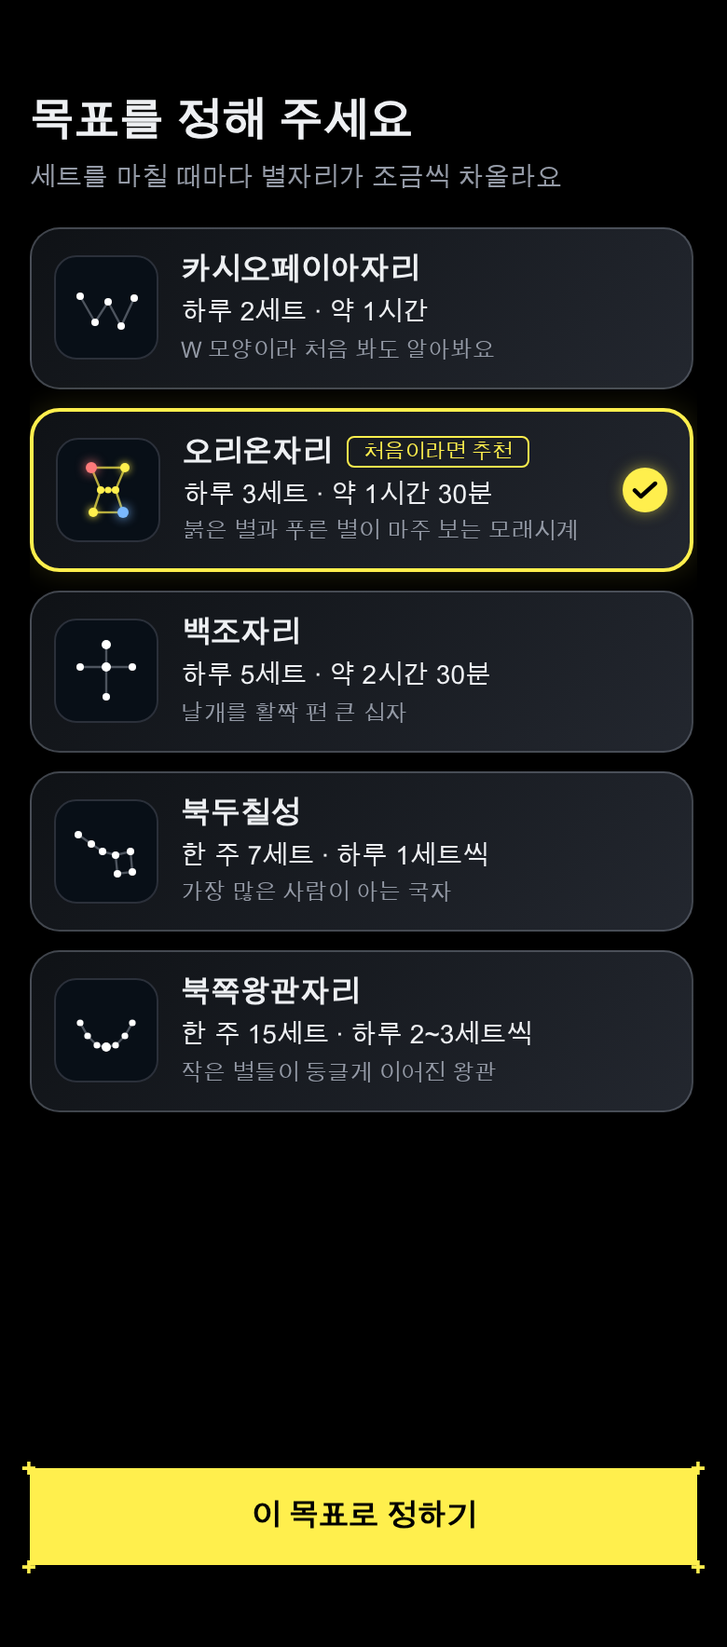
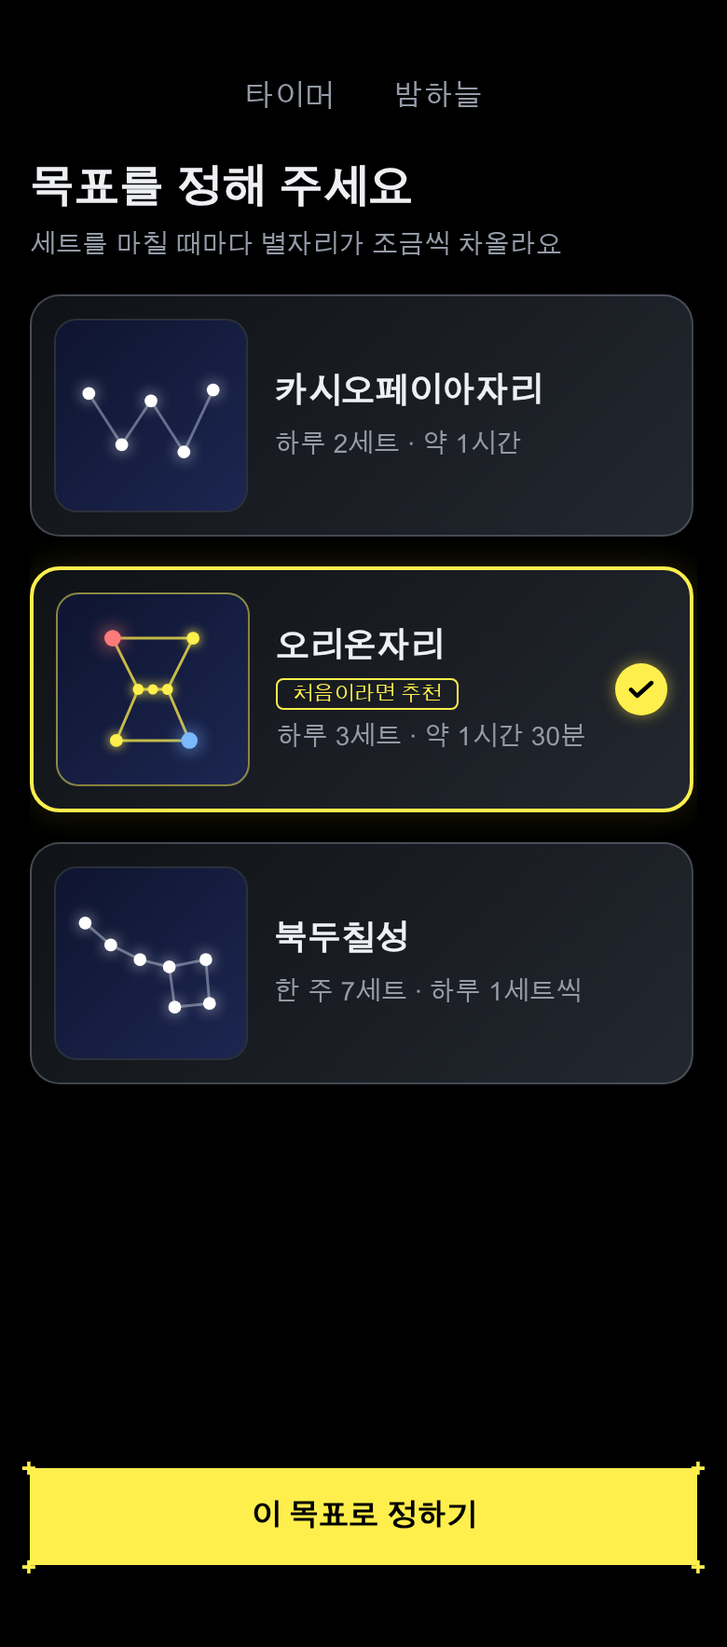
Redesign the goal screen for three free constellations

Changed region(s): [[0.0308, 0.0311, 0.9538, 0.6844]]

diff --git a/idea/screens/0A_목표_설정/code.html b/idea/screens/0A_목표_설정/code.html
@@ -92,133 +92,49 @@
 <body>
 <!-- BEGIN: MainContainer -->
 <div class="flex flex-col justify-between items-center px-4 py-0" data-purpose="mobile-screen-wrapper" id="app-container"><!-- Top Header & Card Selection Section -->
-<div class="w-full max-w-[358px] flex flex-col pt-7 flex-1 min-h-0 overflow-hidden">
+<div class="w-full max-w-[358px] flex flex-col flex-1 min-h-0 overflow-hidden pt-3">
 <!-- Header Section -->
-<div class="flex flex-col mb-4 flex-shrink-0">
+<nav class="w-full flex items-center justify-center gap-8 mb-4 flex-shrink-0 pt-2"><button class="text-[16px] font-medium text-[#949AA6] pb-1 cursor-pointer transition-colors focus:outline-none" type="button">타이머</button><button class="text-[16px] font-medium text-[#949AA6] pb-1 cursor-pointer transition-colors focus:outline-none" type="button">밤하늘</button></nav><div class="flex flex-col mb-4 flex-shrink-0">
 <h1 class="text-[24px] font-bold text-[#EEF0F3] leading-snug tracking-normal">목표를 정해 주세요</h1>
 <p class="text-[14px] text-[#949AA6] mt-1 tracking-normal">세트를 마칠 때마다 별자리가 조금씩 차올라요</p>
 </div>
 <!-- Constellation Selection Cards List -->
-<div class="flex flex-col gap-2.5 w-full flex-1 overflow-y-auto pr-0.5 pb-2">
+<div class="flex flex-col gap-4 w-full flex-1 overflow-y-auto pr-0.5 pb-2">
 <!-- Card 1: 카시오페이아자리 (Unselected) -->
-<div class="w-full rounded-2xl p-3 flex items-center justify-between cursor-pointer border border-[#7C828D]/45 hover:border-[#7C828D] transition-colors flex-shrink-0" style="background: linear-gradient(135deg, #0F1216 0%, #23272F 100%); min-height: 84px;">
-<div class="flex items-center gap-3">
-<div class="w-[56px] h-[56px] rounded-xl bg-[#080F17] flex items-center justify-center flex-shrink-0 border border-[#2B303A]">
-<svg fill="none" height="44" viewbox="0 0 44 44" width="44" xmlns="http://www.w3.org/2000/svg">
-<polyline fill="none" points="8,16 16,30 23,19 30,32 37,17" stroke="rgba(124,130,141,0.6)" stroke-width="1.2"></polyline>
-<circle cx="8" cy="16" fill="#FFFFFF" r="2"></circle>
-<circle cx="16" cy="30" fill="#FFFFFF" r="2"></circle>
-<circle cx="23" cy="19" fill="#FFFFFF" r="2"></circle>
-<circle cx="30" cy="32" fill="#FFFFFF" r="2"></circle>
-<circle cx="37" cy="17" fill="#FFFFFF" r="2"></circle>
+<div class="w-full rounded-2xl p-3 flex items-center justify-between cursor-pointer border border-[#7C828D]/45 hover:border-[#7C828D] transition-colors flex-shrink-0" style="background: linear-gradient(135deg, #0F1216 0%, #23272F 100%); min-height: 128px;">
+<div class="flex items-center gap-3.5 flex-1">
+<div class="w-[104px] h-[104px] rounded-xl flex items-center justify-center flex-shrink-0 border border-[#2B303A] relative overflow-hidden" style="background: linear-gradient(135deg, #0E1430 0%, #1C2650 100%);">
+<svg class="w-full h-full" fill="none" viewbox="0 0 104 104" xmlns="http://www.w3.org/2000/svg">
+<polyline fill="none" points="18,40 36,68 52,44 70,72 86,38" stroke="rgba(200,210,230,0.45)" stroke-width="1.5"></polyline>
+<circle cx="18" cy="40" fill="#FFFFFF" filter="drop-shadow(0 0 4px rgba(255,255,255,0.7))" r="3.5"></circle>
+<circle cx="36" cy="68" fill="#FFFFFF" filter="drop-shadow(0 0 4px rgba(255,255,255,0.7))" r="3.5"></circle>
+<circle cx="52" cy="44" fill="#FFFFFF" filter="drop-shadow(0 0 4px rgba(255,255,255,0.7))" r="3.5"></circle>
+<circle cx="70" cy="72" fill="#FFFFFF" filter="drop-shadow(0 0 4px rgba(255,255,255,0.7))" r="3.5"></circle>
+<circle cx="86" cy="38" fill="#FFFFFF" filter="drop-shadow(0 0 4px rgba(255,255,255,0.7))" r="3.5"></circle>
 </svg>
 </div>
-<div class="flex flex-col justify-center">
-<div class="text-[16px] font-bold text-[#EEF0F3] leading-tight">카시오페이아자리</div>
-<div class="text-[14px] font-medium text-[#EEF0F3] leading-tight mt-1">하루 2세트 · 약 1시간</div>
-<div class="text-[12px] text-[#949AA6] leading-tight mt-1">W 모양이라 처음 봐도 알아봐요</div>
-</div>
+<div class="flex-1 min-w-0 flex flex-col justify-center"><div class="text-[18px] font-bold text-[#EEF0F3] leading-tight truncate" style="white-space: nowrap;">카시오페이아자리</div><div class="text-[14px] font-medium text-[#949AA6] leading-tight mt-2 truncate" style="white-space: nowrap;">하루 2세트 · 약 1시간</div></div>
 </div>
 </div>
 <!-- Card 2: 오리온자리 (SELECTED) -->
-<div class="w-full rounded-2xl p-3 flex items-center justify-between cursor-pointer border-2 border-[#FFEF4D] shadow-[0_0_16px_rgba(255,239,77,0.15)] flex-shrink-0" style="background: linear-gradient(135deg, #0F1216 0%, #23272F 100%); min-height: 84px;">
-<div class="flex items-center gap-3">
-<div class="w-[56px] h-[56px] rounded-xl bg-[#080F17] flex items-center justify-center flex-shrink-0 border border-[#2B303A]">
-<svg fill="none" height="44" viewbox="0 0 44 44" width="44" xmlns="http://www.w3.org/2000/svg">
-<line stroke="#FFEF4D" stroke-opacity="0.7" stroke-width="1.2" x1="13" x2="31" y1="10" y2="10"></line>
-<line stroke="#FFEF4D" stroke-opacity="0.7" stroke-width="1.2" x1="13" x2="18" y1="10" y2="22"></line>
-<line stroke="#FFEF4D" stroke-opacity="0.7" stroke-width="1.2" x1="31" x2="26" y1="10" y2="22"></line>
-<line stroke="#FFEF4D" stroke-opacity="0.7" stroke-width="1.2" x1="18" x2="26" y1="22" y2="22"></line>
-<line stroke="#FFEF4D" stroke-opacity="0.7" stroke-width="1.2" x1="18" x2="14" y1="22" y2="34"></line>
-<line stroke="#FFEF4D" stroke-opacity="0.7" stroke-width="1.2" x1="26" x2="30" y1="22" y2="34"></line>
-<line stroke="#FFEF4D" stroke-opacity="0.7" stroke-width="1.2" x1="14" x2="30" y1="34" y2="34"></line>
-<circle cx="22" cy="22" fill="#FFEF4D" r="1.8"></circle>
-<circle cx="18" cy="22" fill="#FFEF4D" r="2"></circle>
-<circle cx="26" cy="22" fill="#FFEF4D" r="2"></circle>
-<circle cx="13" cy="10" fill="#FF7A7A" filter="drop-shadow(0 0 3px #FF7A7A)" r="3"></circle>
-<circle cx="31" cy="10" fill="#FFEF4D" filter="drop-shadow(0 0 2px #FFEF4D)" r="2.5"></circle>
-<circle cx="14" cy="34" fill="#FFEF4D" filter="drop-shadow(0 0 2px #FFEF4D)" r="2.5"></circle>
-<circle cx="30" cy="34" fill="#7AB8FF" filter="drop-shadow(0 0 3px #7AB8FF)" r="3"></circle>
+<div class="w-full rounded-2xl p-3 flex items-center justify-between cursor-pointer border-2 border-[#FFEF4D] shadow-[0_0_16px_rgba(255,239,77,0.15)] flex-shrink-0 relative" style="background: linear-gradient(135deg, #0F1216 0%, #23272F 100%); min-height: 128px;"><div class="flex items-center gap-3.5 flex-1 min-w-0 pr-2"><div class="w-[104px] h-[104px] rounded-xl flex items-center justify-center flex-shrink-0 border border-[#FFEF4D]/50 relative overflow-hidden" style="background: linear-gradient(135deg, #0E1430 0%, #1C2650 100%);"><svg class="w-full h-full" fill="none" viewbox="0 0 104 104" xmlns="http://www.w3.org/2000/svg"><line stroke="#FFEF4D" stroke-opacity="0.75" stroke-width="1.5" x1="30" x2="74" y1="24" y2="24"></line><line stroke="#FFEF4D" stroke-opacity="0.75" stroke-width="1.5" x1="30" x2="44" y1="24" y2="52"></line><line stroke="#FFEF4D" stroke-opacity="0.75" stroke-width="1.5" x1="74" x2="60" y1="24" y2="52"></line><line stroke="#FFEF4D" stroke-opacity="0.75" stroke-width="1.5" x1="44" x2="60" y1="52" y2="52"></line><line stroke="#FFEF4D" stroke-opacity="0.75" stroke-width="1.5" x1="44" x2="32" y1="52" y2="80"></line><line stroke="#FFEF4D" stroke-opacity="0.75" stroke-width="1.5" x1="60" x2="72" y1="52" y2="80"></line><line stroke="#FFEF4D" stroke-opacity="0.75" stroke-width="1.5" x1="32" x2="72" y1="80" y2="80"></line><circle cx="44" cy="52" fill="#FFEF4D" filter="drop-shadow(0 0 3px #FFEF4D)" r="3"></circle><circle cx="52" cy="52" fill="#FFEF4D" filter="drop-shadow(0 0 3px #FFEF4D)" r="2.8"></circle><circle cx="60" cy="52" fill="#FFEF4D" filter="drop-shadow(0 0 3px #FFEF4D)" r="3"></circle><circle cx="30" cy="24" fill="#FF7A7A" filter="drop-shadow(0 0 5px #FF7A7A)" r="4.5"></circle><circle cx="74" cy="24" fill="#FFEF4D" filter="drop-shadow(0 0 3px #FFEF4D)" r="3.5"></circle><circle cx="32" cy="80" fill="#FFEF4D" filter="drop-shadow(0 0 3px #FFEF4D)" r="3.5"></circle><circle cx="72" cy="80" fill="#7AB8FF" filter="drop-shadow(0 0 5px #7AB8FF)" r="4.5"></circle></svg></div><div class="flex-1 min-w-0 flex flex-col justify-center"><div class="text-[18px] font-bold text-[#EEF0F3] leading-tight truncate" style="white-space: nowrap;">오리온자리</div><div class="mt-1.5 flex"><span class="border border-[#FFEF4D] text-[11px] text-[#FFEF4D] font-medium rounded px-2 py-0.5 leading-none inline-block" style="white-space: nowrap;">처음이라면 추천</span></div><div class="text-[14px] font-medium text-[#949AA6] leading-tight mt-1.5 truncate" style="white-space: nowrap;">하루 3세트 · 약 1시간 30분</div></div></div><div class="w-[28px] h-[28px] rounded-full bg-[#FFEF4D] flex items-center justify-center flex-shrink-0 shadow-[0_0_8px_rgba(255,239,77,0.5)]"><svg fill="none" height="10" viewbox="0 0 14 10" width="14" xmlns="http://www.w3.org/2000/svg"><path d="M1.5 5.2L4.8 8.5L12.5 1.5" stroke="#000000" stroke-linecap="round" stroke-linejoin="round" stroke-width="2.2"></path></svg></div></div>
+<!-- Card 3: 북두칠성 (Unselected) -->
+<div class="w-full rounded-2xl p-3 flex items-center justify-between cursor-pointer border border-[#7C828D]/45 hover:border-[#7C828D] transition-colors flex-shrink-0" style="background: linear-gradient(135deg, #0F1216 0%, #23272F 100%); min-height: 128px;">
+<div class="flex items-center gap-3.5 flex-1">
+<div class="w-[104px] h-[104px] rounded-xl flex items-center justify-center flex-shrink-0 border border-[#2B303A] relative overflow-hidden" style="background: linear-gradient(135deg, #0E1430 0%, #1C2650 100%);">
+<svg class="w-full h-full" fill="none" viewbox="0 0 104 104" xmlns="http://www.w3.org/2000/svg">
+<!-- Curved handle and 4-star bowl -->
+<polyline fill="none" points="16,30 30,42 46,50 62,54 82,50 84,74 65,76 62,54" stroke="rgba(200,210,230,0.45)" stroke-width="1.5"></polyline>
+<circle cx="16" cy="30" fill="#FFFFFF" filter="drop-shadow(0 0 4px rgba(255,255,255,0.7))" r="3.5"></circle>
+<circle cx="30" cy="42" fill="#FFFFFF" filter="drop-shadow(0 0 4px rgba(255,255,255,0.7))" r="3.5"></circle>
+<circle cx="46" cy="50" fill="#FFFFFF" filter="drop-shadow(0 0 4px rgba(255,255,255,0.7))" r="3.5"></circle>
+<circle cx="62" cy="54" fill="#FFFFFF" filter="drop-shadow(0 0 4px rgba(255,255,255,0.7))" r="3.5"></circle>
+<circle cx="82" cy="50" fill="#FFFFFF" filter="drop-shadow(0 0 4px rgba(255,255,255,0.7))" r="3.5"></circle>
+<circle cx="84" cy="74" fill="#FFFFFF" filter="drop-shadow(0 0 4px rgba(255,255,255,0.7))" r="3.5"></circle>
+<circle cx="65" cy="76" fill="#FFFFFF" filter="drop-shadow(0 0 4px rgba(255,255,255,0.7))" r="3.5"></circle>
 </svg>
 </div>
-<div class="flex flex-col justify-center">
-<div class="flex items-center">
-<span class="text-[16px] font-bold text-[#EEF0F3] leading-tight">오리온자리</span>
-<span class="border border-[#FFEF4D] text-[11px] text-[#FFEF4D] font-medium rounded px-2 py-0.5 ml-2 leading-none">처음이라면 추천</span>
-</div>
-<div class="text-[14px] font-medium text-[#EEF0F3] leading-tight mt-1">하루 3세트 · 약 1시간 30분</div>
-<div class="text-[12px] text-[#949AA6] leading-tight mt-1">붉은 별과 푸른 별이 마주 보는 모래시계</div>
-</div>
-</div>
-<div class="w-6 h-6 rounded-full bg-[#FFEF4D] flex items-center justify-center flex-shrink-0 ml-2 shadow-[0_0_8px_rgba(255,239,77,0.5)]">
-<svg fill="none" height="10" viewbox="0 0 14 10" width="14" xmlns="http://www.w3.org/2000/svg">
-<path d="M1.5 5.2L4.8 8.5L12.5 1.5" stroke="#000000" stroke-linecap="round" stroke-linejoin="round" stroke-width="2.2"></path>
-</svg>
-</div>
-</div>
-<!-- Card 3: 백조자리 (Unselected) -->
-<div class="w-full rounded-2xl p-3 flex items-center justify-between cursor-pointer border border-[#7C828D]/45 hover:border-[#7C828D] transition-colors flex-shrink-0" style="background: linear-gradient(135deg, #0F1216 0%, #23272F 100%); min-height: 84px;">
-<div class="flex items-center gap-3">
-<div class="w-[56px] h-[56px] rounded-xl bg-[#080F17] flex items-center justify-center flex-shrink-0 border border-[#2B303A]">
-<svg fill="none" height="44" viewbox="0 0 44 44" width="44" xmlns="http://www.w3.org/2000/svg">
-<line stroke="rgba(124,130,141,0.6)" stroke-width="1.2" x1="22" x2="22" y1="8" y2="36"></line>
-<line stroke="rgba(124,130,141,0.6)" stroke-width="1.2" x1="8" x2="36" y1="20" y2="20"></line>
-<circle cx="22" cy="8" fill="#FFFFFF" r="2.5"></circle>
-<circle cx="22" cy="20" fill="#FFFFFF" r="2.5"></circle>
-<circle cx="22" cy="36" fill="#FFFFFF" r="2"></circle>
-<circle cx="8" cy="20" fill="#FFFFFF" r="2"></circle>
-<circle cx="36" cy="20" fill="#FFFFFF" r="2"></circle>
-</svg>
-</div>
-<div class="flex flex-col justify-center">
-<div class="text-[16px] font-bold text-[#EEF0F3] leading-tight">백조자리</div>
-<div class="text-[14px] font-medium text-[#EEF0F3] leading-tight mt-1">하루 5세트 · 약 2시간 30분</div>
-<div class="text-[12px] text-[#949AA6] leading-tight mt-1">날개를 활짝 편 큰 십자</div>
-</div>
-</div>
-</div>
-<!-- Card 4: 북두칠성 (Unselected) -->
-<div class="w-full rounded-2xl p-3 flex items-center justify-between cursor-pointer border border-[#7C828D]/45 hover:border-[#7C828D] transition-colors flex-shrink-0" style="background: linear-gradient(135deg, #0F1216 0%, #23272F 100%); min-height: 84px;">
-<div class="flex items-center gap-3">
-<div class="w-[56px] h-[56px] rounded-xl bg-[#080F17] flex items-center justify-center flex-shrink-0 border border-[#2B303A]">
-<svg fill="none" height="44" viewbox="0 0 44 44" width="44" xmlns="http://www.w3.org/2000/svg">
-<polyline fill="none" points="7,13 14,18 20,22 27,24 35,22 36,33 28,34 27,24" stroke="rgba(124,130,141,0.6)" stroke-width="1.2"></polyline>
-<circle cx="7" cy="13" fill="#FFFFFF" r="2"></circle>
-<circle cx="14" cy="18" fill="#FFFFFF" r="2"></circle>
-<circle cx="20" cy="22" fill="#FFFFFF" r="2"></circle>
-<circle cx="27" cy="24" fill="#FFFFFF" r="2"></circle>
-<circle cx="35" cy="22" fill="#FFFFFF" r="2"></circle>
-<circle cx="36" cy="33" fill="#FFFFFF" r="2"></circle>
-<circle cx="28" cy="34" fill="#FFFFFF" r="2"></circle>
-</svg>
-</div>
-<div class="flex flex-col justify-center">
-<div class="text-[16px] font-bold text-[#EEF0F3] leading-tight">북두칠성</div>
-<div class="text-[14px] font-medium text-[#EEF0F3] leading-tight mt-1">한 주 7세트 · 하루 1세트씩</div>
-<div class="text-[12px] text-[#949AA6] leading-tight mt-1">가장 많은 사람이 아는 국자</div>
-</div>
-</div>
-</div>
-<!-- Card 5: 북쪽왕관자리 (Unselected) -->
-<div class="w-full rounded-2xl p-3 flex items-center justify-between cursor-pointer border border-[#7C828D]/45 hover:border-[#7C828D] transition-colors flex-shrink-0" style="background: linear-gradient(135deg, #0F1216 0%, #23272F 100%); min-height: 84px;">
-<div class="flex items-center gap-3">
-<div class="w-[56px] h-[56px] rounded-xl bg-[#080F17] flex items-center justify-center flex-shrink-0 border border-[#2B303A]">
-<svg fill="none" height="44" viewbox="0 0 44 44" width="44" xmlns="http://www.w3.org/2000/svg">
-<polyline fill="none" points="8,18 12,25 17,30 22,31 27,30 32,25 36,18" stroke="rgba(124,130,141,0.6)" stroke-width="1.2"></polyline>
-<circle cx="8" cy="18" fill="#FFFFFF" r="1.8"></circle>
-<circle cx="12" cy="25" fill="#FFFFFF" r="1.8"></circle>
-<circle cx="17" cy="30" fill="#FFFFFF" r="1.8"></circle>
-<circle cx="22" cy="31" fill="#FFFFFF" r="2.5"></circle>
-<circle cx="27" cy="30" fill="#FFFFFF" r="1.8"></circle>
-<circle cx="32" cy="25" fill="#FFFFFF" r="1.8"></circle>
-<circle cx="36" cy="18" fill="#FFFFFF" r="1.8"></circle>
-</svg>
-</div>
-<div class="flex flex-col justify-center">
-<div class="text-[16px] font-bold text-[#EEF0F3] leading-tight">북쪽왕관자리</div>
-<div class="text-[14px] font-medium text-[#EEF0F3] leading-tight mt-1">한 주 15세트 · 하루 2~3세트씩</div>
-<div class="text-[12px] text-[#949AA6] leading-tight mt-1">작은 별들이 둥글게 이어진 왕관</div>
-</div>
+<div class="flex-1 min-w-0 flex flex-col justify-center"><div class="text-[18px] font-bold text-[#EEF0F3] leading-tight truncate" style="white-space: nowrap;">북두칠성</div><div class="text-[14px] font-medium text-[#949AA6] leading-tight mt-2 truncate" style="white-space: nowrap;">한 주 7세트 · 하루 1세트씩</div></div>
 </div>
 </div>
 </div>

diff --git a/idea/screens/토스판/0A_목표_설정/code.html b/idea/screens/토스판/0A_목표_설정/code.html
@@ -130,127 +130,64 @@
 <p class="text-[15px] font-normal text-[#6B7684] mt-2 leading-snug">세트를 마칠 때마다 별자리가 조금씩 차올라요</p>
 </div>
 <!-- Constellation Cards -->
-<div class="flex flex-col gap-3 w-full pb-2">
-<!-- Card 1: 카시오페이아자리 (Unselected) -->
-<div class="w-full rounded-[16px] p-4 flex items-center justify-between cursor-pointer bg-white border border-[#E5E8EB] hover:border-[#D1D6DB] transition-all flex-shrink-0 shadow-[0_2px_8px_rgba(0,0,0,0.02)]">
-<div class="flex items-center gap-3.5">
-<div class="w-[56px] h-[56px] rounded-[12px] flex items-center justify-center flex-shrink-0 border border-[#20294A]" style="background: linear-gradient(180deg, #0E1430 0%, #1C2650 100%);">
-<svg fill="none" height="44" viewbox="0 0 44 44" width="44">
-<polyline points="8,16 16,30 23,19 30,32 37,17" stroke="rgba(255,255,255,0.45)" stroke-linecap="round" stroke-linejoin="round" stroke-width="1.4"></polyline>
-<circle cx="8" cy="16" fill="#FFFFFF" r="2.2"></circle>
-<circle cx="16" cy="30" fill="#FFFFFF" r="2.2"></circle>
-<circle cx="23" cy="19" fill="#FFFFFF" r="2.2"></circle>
-<circle cx="30" cy="32" fill="#FFFFFF" r="2.2"></circle>
-<circle cx="37" cy="17" fill="#FFFFFF" r="2.2"></circle>
+<div class="flex flex-col gap-3.5 w-full pb-2">
+<!-- Card 1: 카시오페이아자리 -->
+<div class="w-full rounded-[16px] p-3.5 flex items-center justify-between cursor-pointer bg-white border border-[#E5E8EB] hover:border-[#D1D6DB] transition-all flex-shrink-0 shadow-[0_2px_8px_rgba(0,0,0,0.02)]">
+<div class="flex items-center gap-3.5 flex-1 min-w-0">
+<div class="w-[104px] h-[104px] rounded-[12px] flex items-center justify-center flex-shrink-0 border border-[#20294A]" style="background: linear-gradient(180deg, #0E1430 0%, #1C2650 100%);">
+<svg fill="none" height="80" viewbox="0 0 80 80" width="80">
+<polyline points="16,28 30,52 42,33 55,55 67,29" stroke="rgba(255,255,255,0.55)" stroke-linecap="round" stroke-linejoin="round" stroke-width="2"></polyline>
+<circle cx="16" cy="28" fill="#FFFFFF" r="4"></circle>
+<circle cx="30" cy="52" fill="#FFFFFF" r="3.8"></circle>
+<circle cx="42" cy="33" fill="#FFFFFF" r="3.6"></circle>
+<circle cx="55" cy="55" fill="#FFFFFF" r="4"></circle>
+<circle cx="67" cy="29" fill="#FFFFFF" r="4.2"></circle>
 </svg>
 </div>
-<div class="flex flex-col justify-center">
-<span class="text-[17px] font-bold text-[#191F28] leading-tight">카시오페이아자리</span>
-<span class="text-[14px] font-medium text-[#4E5968] leading-tight mt-1">하루 2세트 · 약 1시간</span>
-<span class="text-[13px] text-[#8B95A1] leading-tight mt-1">W 모양이라 처음 봐도 알아봐요</span>
-</div>
+<div class="flex flex-col justify-center flex-1"><span class="text-[18px] font-bold text-[#191F28] leading-tight" style="white-space: nowrap; overflow: hidden; text-overflow: ellipsis;">카시오페이아자리</span><span class="font-normal text-[#6B7684] leading-tight mt-2" style="font-size: 14px; white-space: nowrap; overflow: hidden; text-overflow: ellipsis;">하루 2세트 · 약 1시간</span></div>
 </div>
 </div>
 <!-- Card 2: 오리온자리 (SELECTED CARD) -->
-<div class="w-full rounded-[16px] p-4 flex items-center justify-between cursor-pointer bg-[#FFFBE6] border-2 border-[#FFE14D] shadow-[0_4px_16px_rgba(255,225,77,0.2)] flex-shrink-0 transition-all">
-<div class="flex items-center gap-3.5">
-<div class="w-[56px] h-[56px] rounded-[12px] flex items-center justify-center flex-shrink-0 border border-[#20294A]" style="background: linear-gradient(180deg, #0E1430 0%, #1C2650 100%);">
-<svg fill="none" height="44" viewbox="0 0 44 44" width="44">
-<line stroke="#FFE14D" stroke-opacity="0.8" stroke-width="1.2" x1="13" x2="31" y1="10" y2="10"></line>
-<line stroke="#FFE14D" stroke-opacity="0.8" stroke-width="1.2" x1="13" x2="18" y1="10" y2="22"></line>
-<line stroke="#FFE14D" stroke-opacity="0.8" stroke-width="1.2" x1="31" x2="26" y1="10" y2="22"></line>
-<line stroke="#FFE14D" stroke-opacity="0.8" stroke-width="1.2" x1="18" x2="26" y1="22" y2="22"></line>
-<line stroke="#FFE14D" stroke-opacity="0.8" stroke-width="1.2" x1="18" x2="14" y1="22" y2="34"></line>
-<line stroke="#FFE14D" stroke-opacity="0.8" stroke-width="1.2" x1="26" x2="30" y1="22" y2="34"></line>
-<line stroke="#FFE14D" stroke-opacity="0.8" stroke-width="1.2" x1="14" x2="30" y1="34" y2="34"></line>
-<circle cx="22" cy="22" fill="#FFE14D" r="1.8"></circle>
-<circle cx="18" cy="22" fill="#FFE14D" r="2"></circle>
-<circle cx="26" cy="22" fill="#FFE14D" r="2"></circle>
-<circle cx="13" cy="10" fill="#FF6B6B" r="3"></circle>
-<circle cx="31" cy="10" fill="#FFE14D" r="2.5"></circle>
-<circle cx="14" cy="34" fill="#FFE14D" r="2.5"></circle>
-<circle cx="30" cy="34" fill="#64B5F6" r="3"></circle>
+<div class="w-full rounded-[16px] p-3.5 flex items-center justify-between cursor-pointer bg-[#FFFBE6] border-2 border-[#FFE14D] shadow-[0_4px_16px_rgba(255,225,77,0.2)] flex-shrink-0 transition-all">
+<div class="flex items-center gap-3.5 flex-1 min-w-0">
+<div class="w-[104px] h-[104px] rounded-[12px] flex items-center justify-center flex-shrink-0 border border-[#20294A]" style="background: linear-gradient(180deg, #0E1430 0%, #1C2650 100%);">
+<svg fill="none" height="80" viewbox="0 0 80 80" width="80">
+<line stroke="#FFE14D" stroke-opacity="0.9" stroke-width="1.8" x1="24" x2="56" y1="18" y2="18"></line>
+<line stroke="#FFE14D" stroke-opacity="0.9" stroke-width="1.8" x1="24" x2="33" y1="18" y2="40"></line>
+<line stroke="#FFE14D" stroke-opacity="0.9" stroke-width="1.8" x1="56" x2="47" y1="18" y2="40"></line>
+<line stroke="#FFE14D" stroke-opacity="0.9" stroke-width="1.8" x1="33" x2="47" y1="40" y2="40"></line>
+<line stroke="#FFE14D" stroke-opacity="0.9" stroke-width="1.8" x1="33" x2="26" y1="40" y2="62"></line>
+<line stroke="#FFE14D" stroke-opacity="0.9" stroke-width="1.8" x1="47" x2="54" y1="40" y2="62"></line>
+<line stroke="#FFE14D" stroke-opacity="0.9" stroke-width="1.8" x1="26" x2="54" y1="62" y2="62"></line>
+<circle cx="40" cy="40" fill="#FFE14D" r="3"></circle>
+<circle cx="33" cy="40" fill="#FFE14D" r="3.2"></circle>
+<circle cx="47" cy="40" fill="#FFE14D" r="3.2"></circle>
+<circle cx="24" cy="18" fill="#FF6B6B" r="4.8"></circle>
+<circle cx="56" cy="18" fill="#FFE14D" r="4"></circle>
+<circle cx="26" cy="62" fill="#FFE14D" r="4"></circle>
+<circle cx="54" cy="62" fill="#64B5F6" r="4.8"></circle>
 </svg>
 </div>
-<div class="flex flex-col justify-center">
-<div class="flex items-center gap-1.5">
-<span class="text-[17px] font-bold text-[#191F28] leading-tight">오리온자리</span>
-<span class="bg-[#FFF0A0] text-[#7A5C00] text-[11px] font-semibold rounded-[4px] px-2 py-0.5 leading-none">처음이라면 추천</span>
+<div class="flex flex-col justify-center flex-1"><span class="text-[18px] font-bold text-[#191F28] leading-tight" style="white-space: nowrap; overflow: hidden; text-overflow: ellipsis;">오리온자리</span><div class="mt-1 mb-1.5 flex items-center"><span class="bg-[#FFF0A0] text-[#7A5C00] font-semibold rounded-[4px] px-2 py-0.5 leading-none" style="font-size: 12px; display: inline-block;">처음이라면 추천</span></div><span class="font-normal text-[#6B7684] leading-tight" style="font-size: 14px; white-space: nowrap; overflow: hidden; text-overflow: ellipsis;">하루 3세트 · 약 1시간 30분</span></div>
 </div>
-<span class="text-[14px] font-medium text-[#4E5968] leading-tight mt-1">하루 3세트 · 약 1시간 30분</span>
-<span class="text-[13px] text-[#8B95A1] leading-tight mt-1">붉은 별과 푸른 별이 마주 보는 모래시계</span>
+<div class="rounded-full bg-[#FFE14D] flex items-center justify-center flex-shrink-0 shadow-sm ml-2" style="width: 28px; height: 28px;"><svg fill="none" height="11" viewbox="0 0 14 10" width="15"><path d="M1.5 5L5 8.5L12.5 1.5" stroke="#191F28" stroke-linecap="round" stroke-linejoin="round" stroke-width="2.2"></path></svg></div>
 </div>
-</div>
-<!-- Selected Circle Checkmark -->
-<div class="w-6 h-6 rounded-full bg-[#FFE14D] flex items-center justify-center flex-shrink-0 shadow-sm">
-<svg fill="none" height="10" viewbox="0 0 14 10" width="14">
-<path d="M1.5 5L5 8.5L12.5 1.5" stroke="#191F28" stroke-linecap="round" stroke-linejoin="round" stroke-width="2.2"></path>
+<!-- Card 3: 북두칠성 -->
+<div class="w-full rounded-[16px] p-3.5 flex items-center justify-between cursor-pointer bg-white border border-[#E5E8EB] hover:border-[#D1D6DB] transition-all flex-shrink-0 shadow-[0_2px_8px_rgba(0,0,0,0.02)]">
+<div class="flex items-center gap-3.5 flex-1 min-w-0">
+<div class="w-[104px] h-[104px] rounded-[12px] flex items-center justify-center flex-shrink-0 border border-[#20294A]" style="background: linear-gradient(180deg, #0E1430 0%, #1C2650 100%);">
+<svg fill="none" height="80" viewbox="0 0 80 80" width="80">
+<polyline points="14,24 25,32 37,39 49,42 64,38 66,58 51,60 49,42" stroke="rgba(255,255,255,0.55)" stroke-linecap="round" stroke-linejoin="round" stroke-width="2"></polyline>
+<circle cx="14" cy="24" fill="#FFFFFF" r="3.8"></circle>
+<circle cx="25" cy="32" fill="#FFFFFF" r="3.8"></circle>
+<circle cx="37" cy="39" fill="#FFFFFF" r="3.8"></circle>
+<circle cx="49" cy="42" fill="#FFFFFF" r="3.8"></circle>
+<circle cx="64" cy="38" fill="#FFFFFF" r="3.8"></circle>
+<circle cx="66" cy="58" fill="#FFFFFF" r="3.8"></circle>
+<circle cx="51" cy="60" fill="#FFFFFF" r="3.8"></circle>
 </svg>
 </div>
-</div>
-<!-- Card 3: 백조자리 (Unselected) -->
-<div class="w-full rounded-[16px] p-4 flex items-center justify-between cursor-pointer bg-white border border-[#E5E8EB] hover:border-[#D1D6DB] transition-all flex-shrink-0 shadow-[0_2px_8px_rgba(0,0,0,0.02)]">
-<div class="flex items-center gap-3.5">
-<div class="w-[56px] h-[56px] rounded-[12px] flex items-center justify-center flex-shrink-0 border border-[#20294A]" style="background: linear-gradient(180deg, #0E1430 0%, #1C2650 100%);">
-<svg fill="none" height="44" viewbox="0 0 44 44" width="44">
-<line stroke="rgba(255,255,255,0.45)" stroke-linecap="round" stroke-width="1.4" x1="22" x2="22" y1="8" y2="36"></line>
-<line stroke="rgba(255,255,255,0.45)" stroke-linecap="round" stroke-width="1.4" x1="8" x2="36" y1="20" y2="20"></line>
-<circle cx="22" cy="8" fill="#FFFFFF" r="2.5"></circle>
-<circle cx="22" cy="20" fill="#FFFFFF" r="2.5"></circle>
-<circle cx="22" cy="36" fill="#FFFFFF" r="2"></circle>
-<circle cx="8" cy="20" fill="#FFFFFF" r="2"></circle>
-<circle cx="36" cy="20" fill="#FFFFFF" r="2"></circle>
-</svg>
-</div>
-<div class="flex flex-col justify-center">
-<span class="text-[17px] font-bold text-[#191F28] leading-tight">백조자리</span>
-<span class="text-[14px] font-medium text-[#4E5968] leading-tight mt-1">하루 5세트 · 약 2시간 30분</span>
-<span class="text-[13px] text-[#8B95A1] leading-tight mt-1">날개를 활짝 편 큰 십자</span>
-</div>
-</div>
-</div>
-<!-- Card 4: 북두칠성 (Unselected) -->
-<div class="w-full rounded-[16px] p-4 flex items-center justify-between cursor-pointer bg-white border border-[#E5E8EB] hover:border-[#D1D6DB] transition-all flex-shrink-0 shadow-[0_2px_8px_rgba(0,0,0,0.02)]">
-<div class="flex items-center gap-3.5">
-<div class="w-[56px] h-[56px] rounded-[12px] flex items-center justify-center flex-shrink-0 border border-[#20294A]" style="background: linear-gradient(180deg, #0E1430 0%, #1C2650 100%);">
-<svg fill="none" height="44" viewbox="0 0 44 44" width="44">
-<polyline points="7,13 14,18 20,22 27,24 35,22 36,33 28,34 27,24" stroke="rgba(255,255,255,0.45)" stroke-linecap="round" stroke-linejoin="round" stroke-width="1.4"></polyline>
-<circle cx="7" cy="13" fill="#FFFFFF" r="2.2"></circle>
-<circle cx="14" cy="18" fill="#FFFFFF" r="2.2"></circle>
-<circle cx="20" cy="22" fill="#FFFFFF" r="2.2"></circle>
-<circle cx="27" cy="24" fill="#FFFFFF" r="2.2"></circle>
-<circle cx="35" cy="22" fill="#FFFFFF" r="2.2"></circle>
-<circle cx="36" cy="33" fill="#FFFFFF" r="2.2"></circle>
-<circle cx="28" cy="34" fill="#FFFFFF" r="2.2"></circle>
-</svg>
-</div>
-<div class="flex flex-col justify-center">
-<span class="text-[17px] font-bold text-[#191F28] leading-tight">북두칠성</span>
-<span class="text-[14px] font-medium text-[#4E5968] leading-tight mt-1">한 주 7세트 · 하루 1세트씩</span>
-<span class="text-[13px] text-[#8B95A1] leading-tight mt-1">가장 많은 사람이 아는 국자</span>
-</div>
-</div>
-</div>
-<!-- Card 5: 북쪽왕관자리 (Unselected) -->
-<div class="w-full rounded-[16px] p-4 flex items-center justify-between cursor-pointer bg-white border border-[#E5E8EB] hover:border-[#D1D6DB] transition-all flex-shrink-0 shadow-[0_2px_8px_rgba(0,0,0,0.02)]">
-<div class="flex items-center gap-3.5">
-<div class="w-[56px] h-[56px] rounded-[12px] flex items-center justify-center flex-shrink-0 border border-[#20294A]" style="background: linear-gradient(180deg, #0E1430 0%, #1C2650 100%);">
-<svg fill="none" height="44" viewbox="0 0 44 44" width="44">
-<polyline points="8,18 12,25 17,30 22,31 27,30 32,25 36,18" stroke="rgba(255,255,255,0.45)" stroke-linecap="round" stroke-linejoin="round" stroke-width="1.4"></polyline>
-<circle cx="8" cy="18" fill="#FFFFFF" r="2"></circle>
-<circle cx="12" cy="25" fill="#FFFFFF" r="2"></circle>
-<circle cx="17" cy="30" fill="#FFFFFF" r="2"></circle>
-<circle cx="22" cy="31" fill="#FFFFFF" r="2.6"></circle>
-<circle cx="27" cy="30" fill="#FFFFFF" r="2"></circle>
-<circle cx="32" cy="25" fill="#FFFFFF" r="2"></circle>
-<circle cx="36" cy="18" fill="#FFFFFF" r="2"></circle>
-</svg>
-</div>
-<div class="flex flex-col justify-center">
-<span class="text-[17px] font-bold text-[#191F28] leading-tight">북쪽왕관자리</span>
-<span class="text-[14px] font-medium text-[#4E5968] leading-tight mt-1">한 주 15세트 · 하루 2~3세트씩</span>
-<span class="text-[13px] text-[#8B95A1] leading-tight mt-1">작은 별들이 둥글게 이어진 왕관</span>
-</div>
+<div class="flex flex-col justify-center flex-1"><span class="text-[18px] font-bold text-[#191F28] leading-tight" style="white-space: nowrap; overflow: hidden; text-overflow: ellipsis;">북두칠성</span><span class="font-normal text-[#6B7684] leading-tight mt-2" style="font-size: 14px; white-space: nowrap; overflow: hidden; text-overflow: ellipsis;">한 주 7세트 · 하루 1세트씩</span></div>
 </div>
 </div>
 </div>

diff --git a/idea/screens/README.md b/idea/screens/README.md
@@ -34,7 +34,7 @@ PRD 4판과 [별자리 규칙 보완판](../별모도로%20별자리%20MVP%20규
 
 | 번호 | 화면 | 상태 | 폴더 |
 |---|---|---|---|
-| 0A | 화면0 목표 설정 | "목표를 정해 주세요" — 무료 버전 별자리 카드 5장(카시오페이아 하루 2 · 오리온 하루 3 · 백조 하루 5 · 북두칠성 한 주 7 · 북쪽왕관 한 주 15세트), 오리온자리가 "처음이라면 추천"으로 선택됨, "이 목표로 정하기" (2026-10-30 C안에 맞춰 단추 이름만 바꿈 — 화면1의 "목표 바꾸기"로 여는 화면) | [0A_목표_설정](0A_목표_설정/screen.png) |
+| 0A | 화면0 목표 설정 | "목표를 정해 주세요" — 무료 버전 별자리 카드 3장(카시오페이아 하루 2 · 오리온 하루 3 · 북두칠성 한 주 7세트), 카드마다 큰 별자리 그림 + 이름 + 목표 한 줄, 오리온자리가 "처음이라면 추천"으로 선택됨, "이 목표로 정하기", 맨 위에 "타이머 · 밤하늘" 탭(둘 다 안 고른 상태 — 바꾸지 않으려면 "타이머" 탭으로 돌아감) (2026-10-30 PRD 6판에 맞춰 고침 — 화면1의 "목표 바꾸기"로 여는 화면) | [0A_목표_설정](0A_목표_설정/screen.png) |
 | 2E | 화면2 밤하늘 | 오리온자리 2/3세트 — 별 4개 다 켜짐 · 다섯째 별 ⅔ · 발 쪽 두 자리는 희미함, 아래에 "지난 별자리" 2줄 | [2E_밤하늘_별자리_진행중](2E_밤하늘_별자리_진행중/screen.png) |
 | 2F | 화면2 밤하늘 | 오리온자리 완성 + 덤 별 1개(오늘 4세트) — 선으로 이어진 모래시계, 단추는 "다음 세트 시작" 그대로 | [2F_밤하늘_별자리_완성](2F_밤하늘_별자리_완성/screen.png) |
 | 3D | 화면3 카드 미리보기 | 진행 카드 — "오리온자리 · 별 4개", "10월 29일 · 2/3세트", 하단 소개와 주소 | [3D_카드_별자리_진행](3D_카드_별자리_진행/screen.png) |
@@ -46,6 +46,7 @@ PRD 4판과 [별자리 규칙 보완판](../별모도로%20별자리%20MVP%20규
 - 글꼴은 Noto Sans KR 하나이고 한글 글자 사이는 보통 간격입니다(카드의 주소만 고정폭 글꼴).
 - 2E·2F 의 code.html 에는 바탕으로 쓴 2B 의 설명 글(주석) "시연 모드"·"Chatbot" 이 남아 있지만, 실제 단추는 없습니다.
 - 2026-10-30 첫 화면 C안: 처음 들어오면 추천 목표(오리온자리 하루 3세트)가 저절로 정해져 화면1 대기로 바로 가고, 기간이 끝나면 지난번 별자리로 저절로 이어집니다. 화면0은 화면1의 "목표 바꾸기"(이번 기간 0세트일 때만)로만 엽니다.
+- 2026-10-30 PRD 6판: 무료 별자리는 카시오페이아자리·오리온자리·북두칠성 3개이고, 화면0은 그림 중심 카드 3장입니다. 백조자리·북쪽왕관자리는 결제를 붙일 때(토스판 이후) 낼 유료 버전(화면0-1 "별자리 더 보기") 후보입니다. 2E·2F·3D·3E 의 "지난 별자리" 예시에는 아직 백조자리가 남아 있습니다.
 - 아직 시안이 없는 4판 화면: 화면1 대기의 진행 줄("오리온자리 · 0/3세트 · 오늘")과 "처음이라 추천 목표로 정했어요 · 목표 바꾸기"(밝은 바탕 모습은 [토스판 1A](토스판/1A_타이머_대기/screen.png)에 있음), 이번 기간 0세트일 때, 한 주 목표일 때, 시연 칸("세트 수": 0·절반·목표 직전·완성·덤 별 +3).
 
 ## 만들지 않은 화면

diff --git a/idea/screens/토스판/README.md b/idea/screens/토스판/README.md
@@ -12,7 +12,7 @@
 
 | 번호 | 화면 | 상태 | 폴더 |
 |---|---|---|---|
-| 0A | 화면 0 (목표 설정) | "목표를 정해 주세요" — 별자리 카드 5장, 지금 목표(오리온자리, "처음이라면 추천")가 골라져 있음, "이 목표로 정하기". 화면 1의 "목표 바꾸기"로만 엶 | [0A_목표_설정](0A_목표_설정/screen.png) |
+| 0A | 화면 0 (목표 설정) | "목표를 정해 주세요" — 무료 별자리 카드 3장(카시오페이아자리 · 오리온자리 · 북두칠성), 카드마다 큰 별자리 그림 + 이름 + 목표 한 줄, 지금 목표(오리온자리, "처음이라면 추천")가 골라져 있음, "이 목표로 정하기". 화면 1의 "목표 바꾸기"로만 엶 | [0A_목표_설정](0A_목표_설정/screen.png) |
 | 1A | 화면 1 (타이머) | 처음 들어오면 바로 보이는 대기 — "오리온자리 · 0/3세트 · 오늘", "처음이라 추천 목표로 정했어요 · 목표 바꾸기", 25:00, "시작" | [1A_타이머_대기](1A_타이머_대기/screen.png) |
 | 1B | 화면 1 (타이머) | 집중 중 12:30, "그만하기" | [1B_타이머_집중중](1B_타이머_집중중/screen.png) |
 | 1D | 화면 1 (타이머) | 그만하기 확인 창 "이번 세트는 별이 되지 않아요" — "그만하기" · "계속하기" | [1D_그만하기_확인창](1D_그만하기_확인창/screen.png) |
